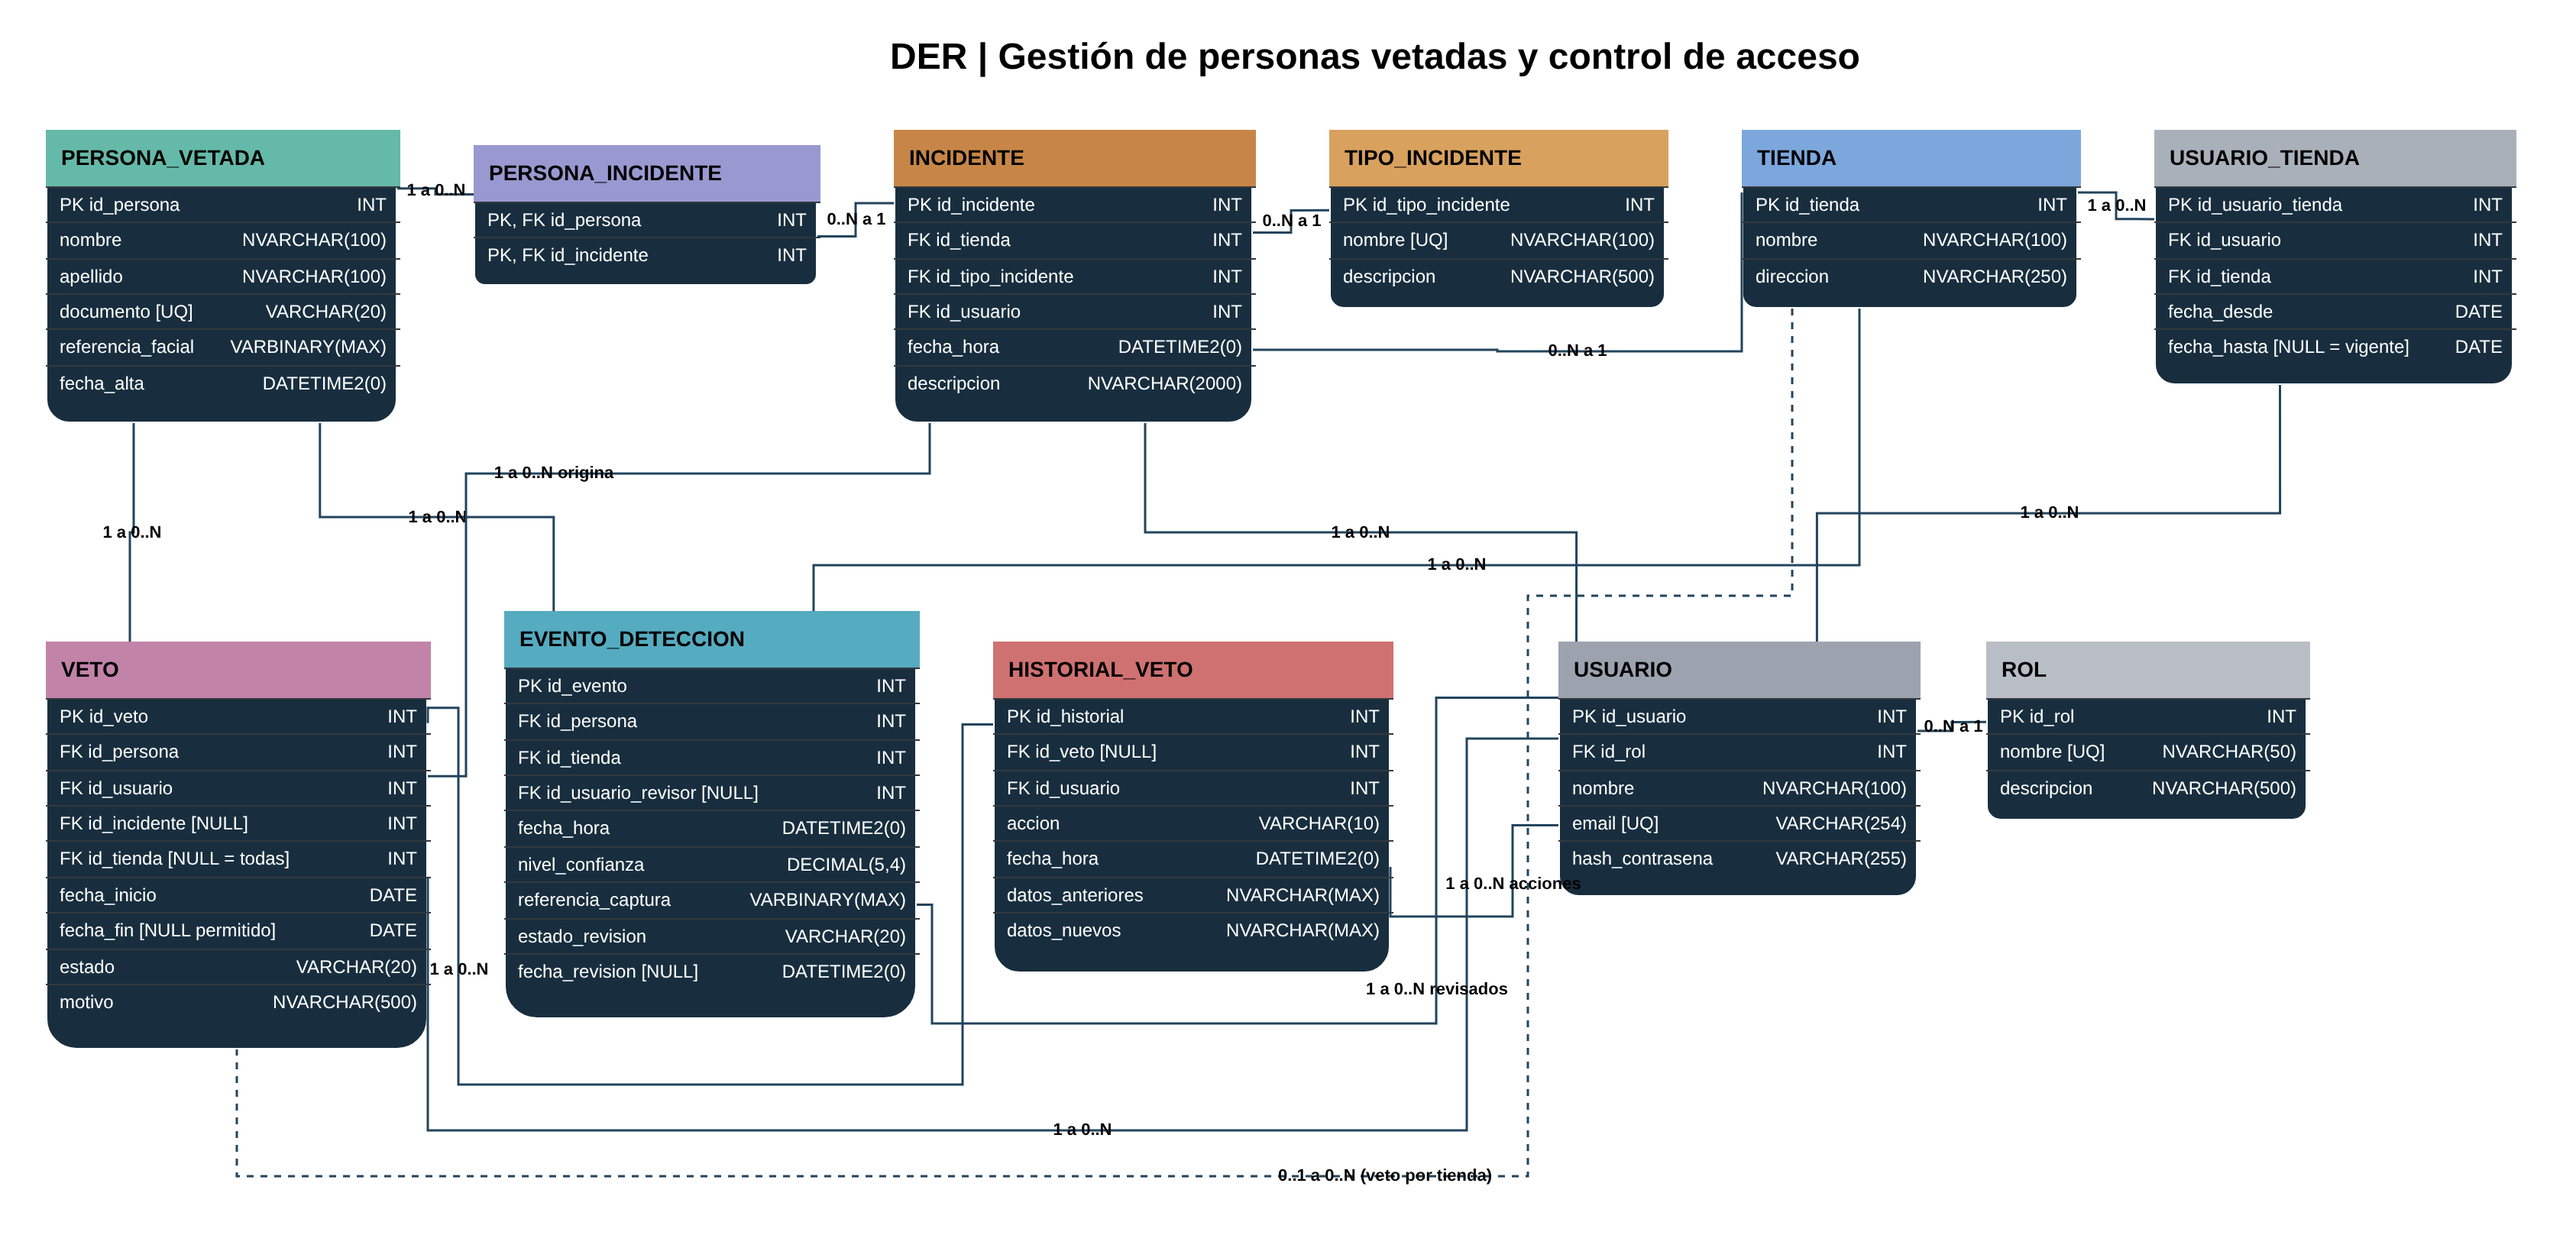
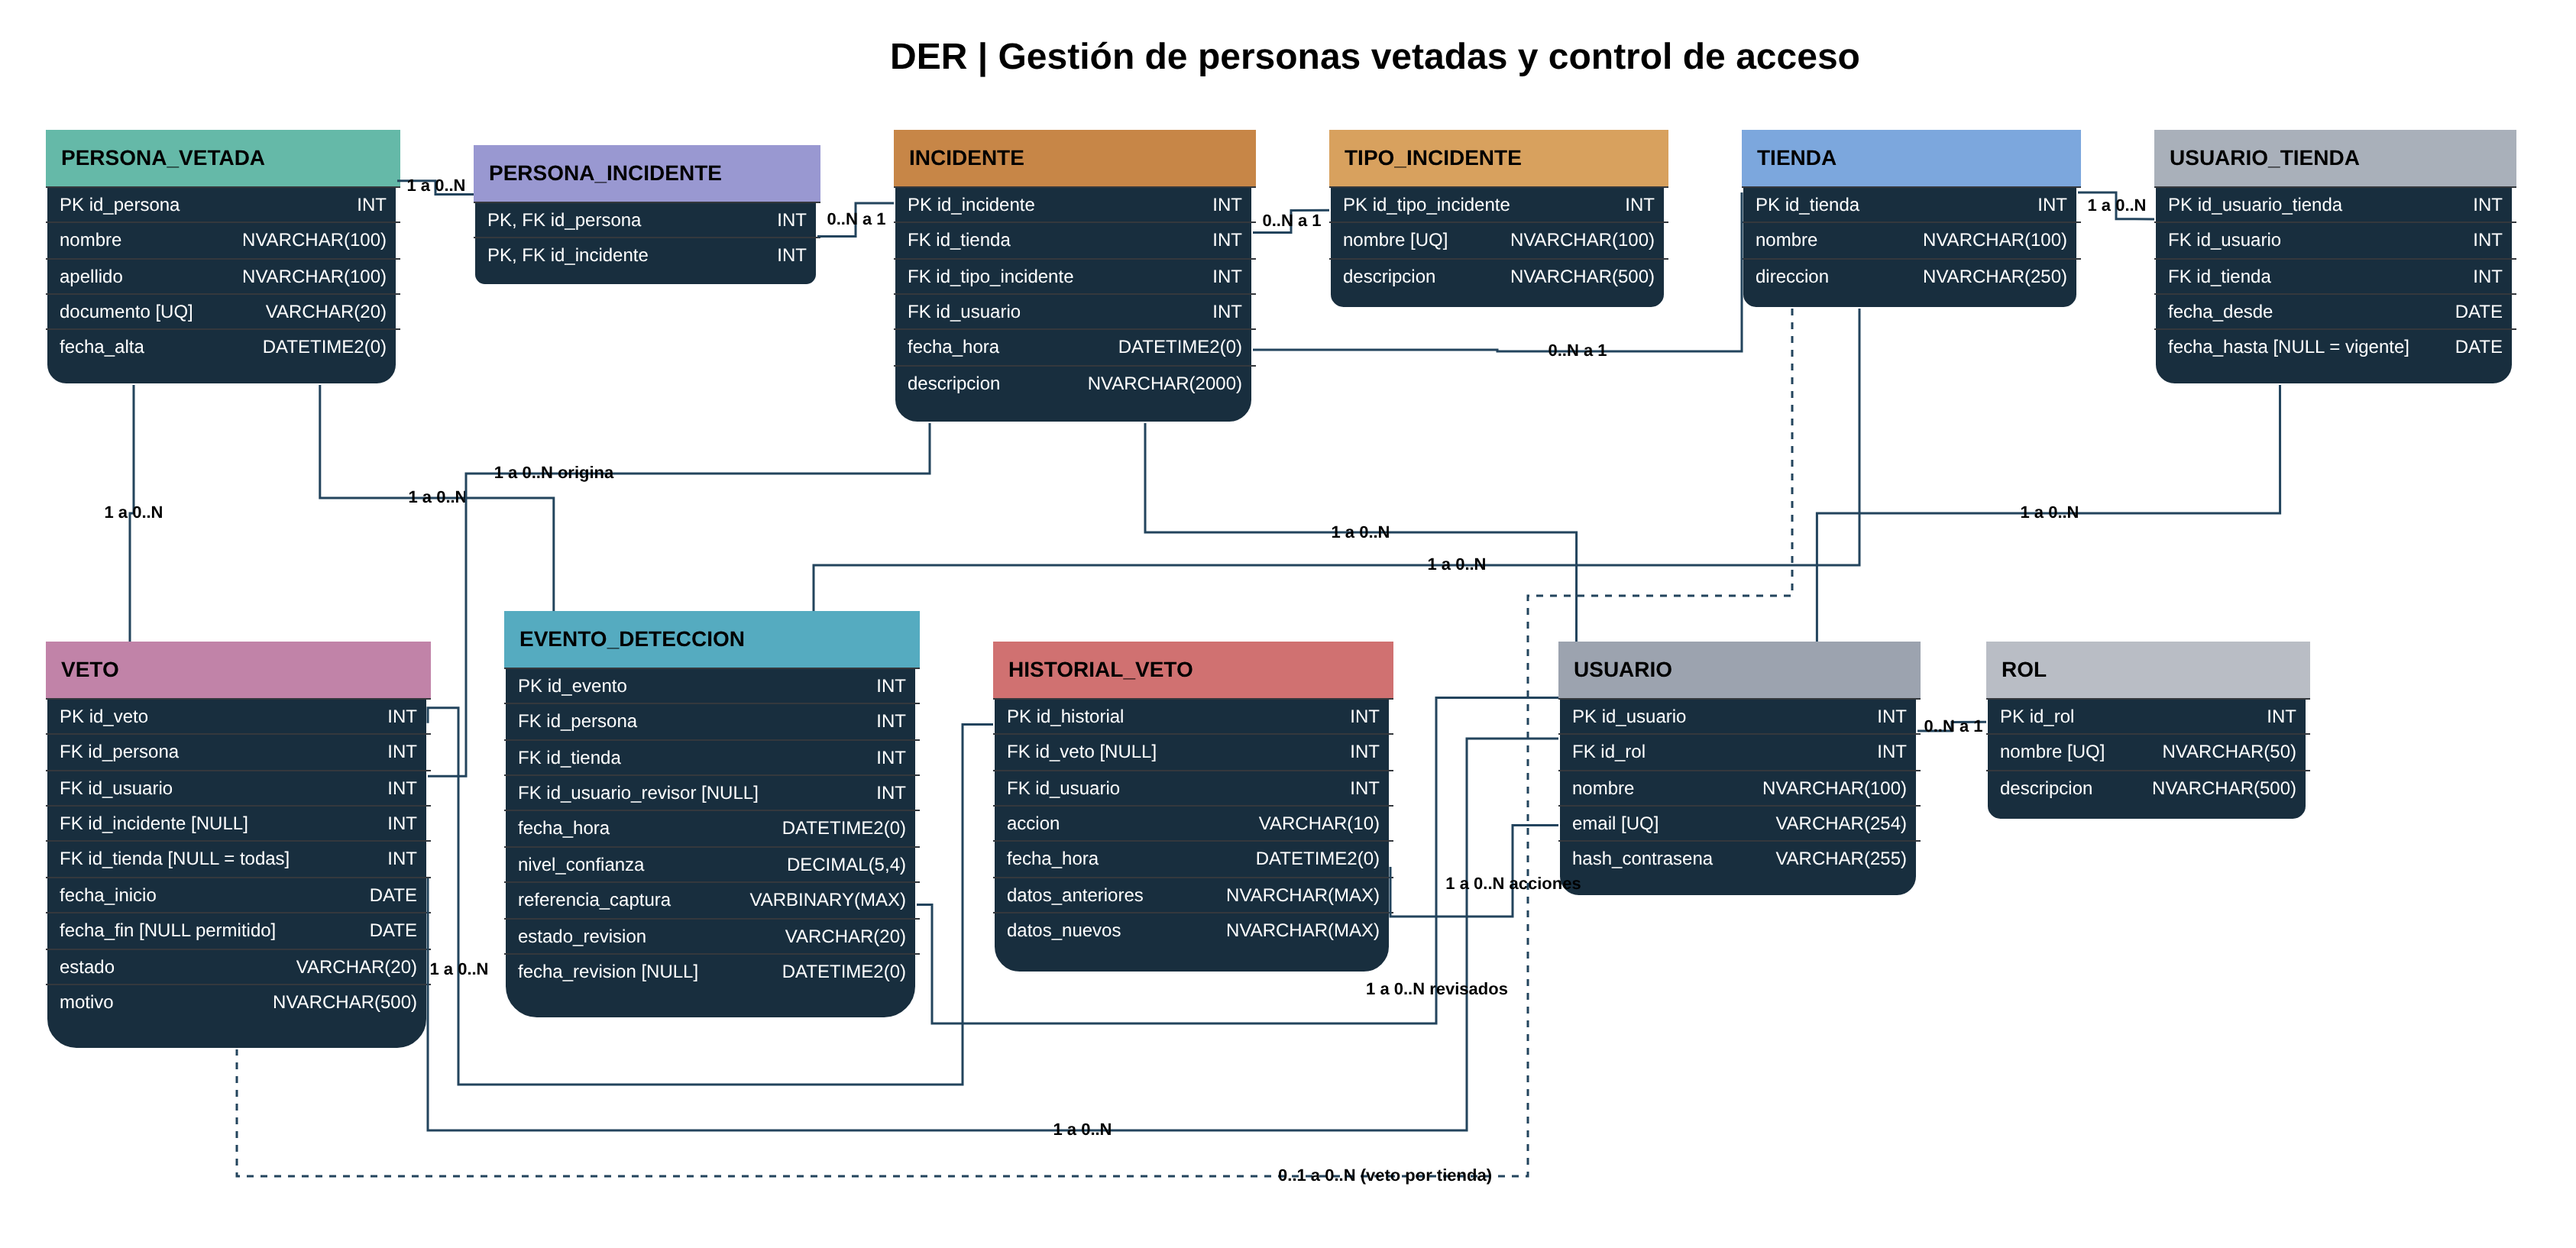
Quitar referencia_facial: la base no guarda embeddings

diff --git a/README.md b/README.md
@@ -24,6 +24,7 @@ La base de datos da soporte a un sistema que controla el ingreso de personas vet
 - **Origen del veto.** `VETO.id_incidente` indica qué incidente originó el veto.
 - **Vigencia del veto.** Un veto está vigente si su estado es `ACTIVO` y su `fecha_fin` es `NULL` (tiempo indeterminado) o posterior a hoy. Los vetos no se borran: al eliminarlos pasan a `LEVANTADO` (baja lógica).
 - **Historial de asignaciones de usuarios a tiendas.** `USUARIO_TIENDA` tiene su propia clave (`id_usuario_tienda`), así un usuario puede ser asignado varias veces a la misma tienda en distintos períodos. `fecha_hasta` en `NULL` indica que la asignación está vigente. Un índice único filtrado impide que el mismo usuario tenga dos asignaciones vigentes a la misma tienda.
+- **Sin datos biométricos.** La base no guarda embeddings ni plantillas faciales: el reconocimiento lo resuelve el motor de inferencia por fuera, y la base solo registra a qué persona detectó en cada evento.
 - **Auditoría.** `HISTORIAL_VETO` guarda cada alta, baja y modificación de un veto, con los datos anteriores y nuevos en formato JSON.
 
 ## Diagrama de entidad-relación
